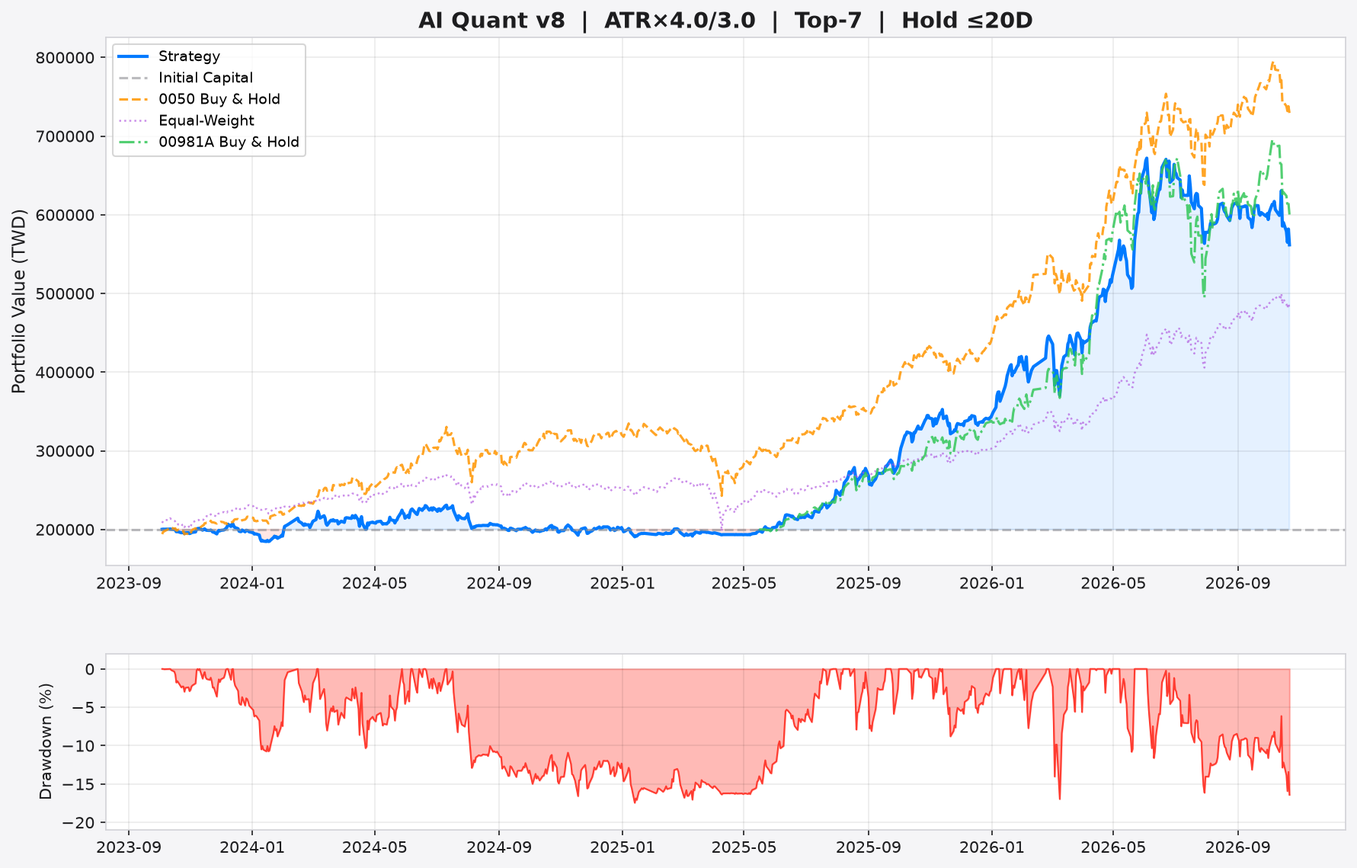
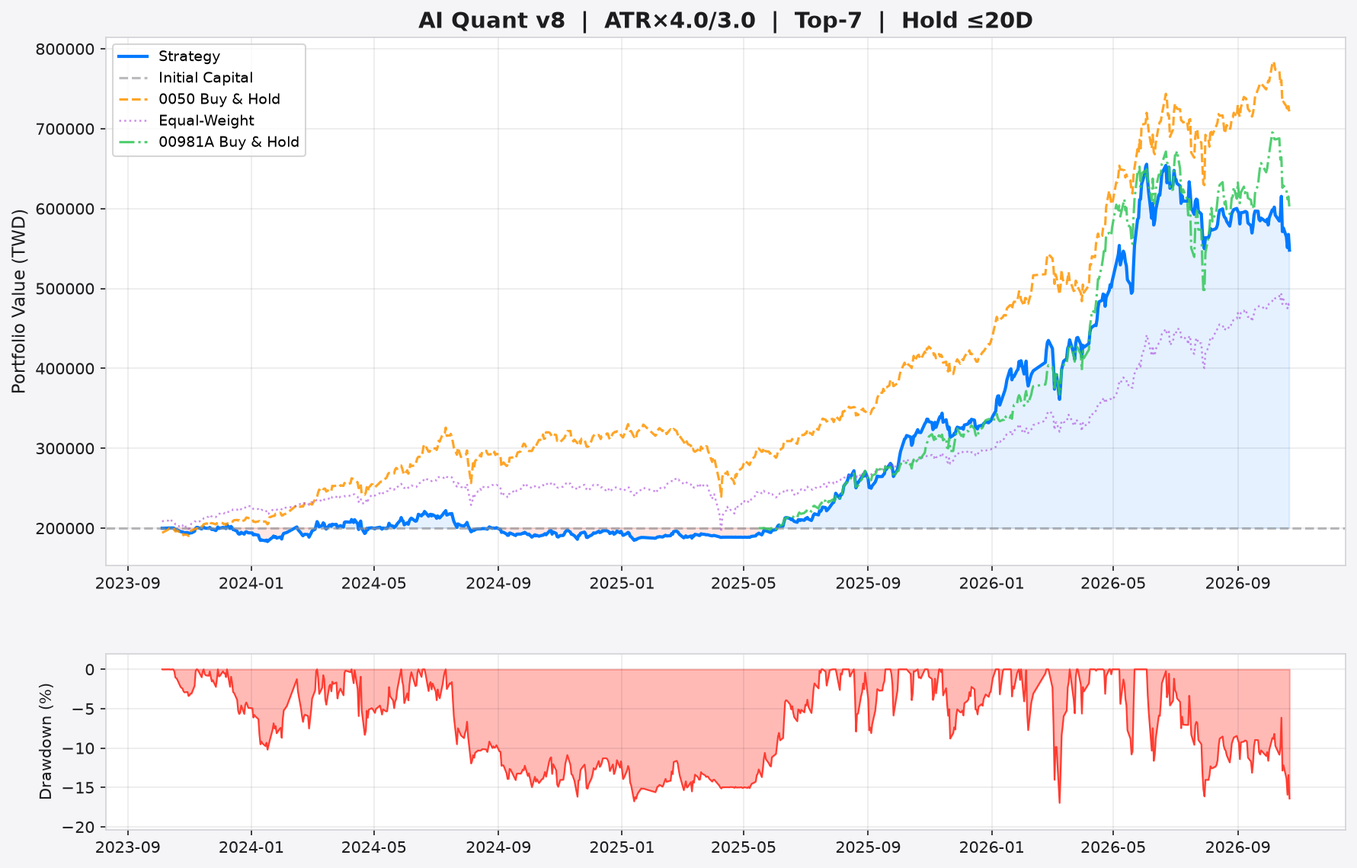
📊 AI Report v8.5 + Paper Trading (2026-10-23)

diff --git a/stock_report.html b/stock_report.html
@@ -303,27 +303,27 @@
     <div class="stats">
         <div class="stat-card">
             <div class="label">策略總報酬率</div>
-            <div class="value" style="color:#00ff00;">+180.9%</div>
+            <div class="value" style="color:#00ff00;">+174.0%</div>
         </div>
         <div class="stat-card">
             <div class="label">年化報酬率</div>
-            <div class="value" style="color:#00ff00;">+42.2%</div>
+            <div class="value" style="color:#00ff00;">+41.1%</div>
         </div>
         <div class="stat-card">
             <div class="label">年化波動率</div>
-            <div class="value">27.1%</div>
+            <div class="value">26.5%</div>
         </div>
         <div class="stat-card risk">
             <div class="label">Sharpe Ratio</div>
-            <div class="value" style="color:#00ff00;">1.44</div>
+            <div class="value" style="color:#00ff00;">1.43</div>
         </div>
         <div class="stat-card risk">
             <div class="label">Sortino Ratio</div>
-            <div class="value">2.01</div>
+            <div class="value">2.00</div>
         </div>
         <div class="stat-card risk">
             <div class="label">最大回撤</div>
-            <div class="value" style="color:#ff4444;">-17.4%</div>
+            <div class="value" style="color:#ff4444;">-17.0%</div>
         </div>
         <div class="stat-card risk">
             <div class="label">Calmar Ratio</div>
@@ -331,11 +331,11 @@
         </div>
         <div class="stat-card">
             <div class="label">完成交易數</div>
-            <div class="value">566</div>
+            <div class="value">567</div>
         </div>
         <div class="stat-card">
             <div class="label">勝率</div>
-            <div class="value" style="color:#00ff00;">53.4%</div>
+            <div class="value" style="color:#00ff00;">54.1%</div>
         </div>
         <div class="stat-card">
             <div class="label">Profit Factor</div>
@@ -343,7 +343,7 @@
         </div>
         <div class="stat-card">
             <div class="label">平均報酬/筆</div>
-            <div class="value">+2.48%</div>
+            <div class="value">+2.49%</div>
         </div>
         <div class="stat-card">
             <div class="label">平均持有天數</div>
@@ -373,14 +373,14 @@
 <tr><td>1303</td><td>4.00</td><td>301.0</td><td><span style="color:#00ff00; font-weight:bold;">🟢 建議買進 #1</span></td><td><b>停利:</b> <span style="color:#00ff00">383.1</span> (+27.3%) <br><b>停損:</b> <span style="color:#ff4444">239.4</span> (-20.5%) <br><b>最晚出場:</b> 2026-11-20</td><td><span style="font-size:0.72rem; color:#888;">歷史 <b>14</b>筆 | 勝率 <b style="color:#00ff00">79%</b> | 均報酬 <b style="color:#00ff00">+8.7%</b></span></td><td><span style="font-size:0.78rem;">⚪ 無資料<br><span style="color:#888; font-weight:bold;">+0.0%</span></span></td><td><span style="font-size:0.78rem;">⚪ 中性</span></td></tr>
 <tr><td>6505</td><td>3.93</td><td>106.5</td><td><span style="color:#00ff00; font-weight:bold;">🟢 建議買進 #2</span></td><td><b>停利:</b> <span style="color:#00ff00">137.4</span> (+29.0%) <br><b>停損:</b> <span style="color:#ff4444">83.3</span> (-21.8%) <br><b>最晚出場:</b> 2026-11-20</td><td><span style="font-size:0.72rem; color:#888;">歷史 <b>5</b>筆 | 勝率 <b style="color:#00ff00">60%</b> | 均報酬 <b style="color:#00ff00">+6.4%</b></span></td><td><span style="font-size:0.78rem;">⚪ 無資料<br><span style="color:#888; font-weight:bold;">+0.0%</span></span></td><td><span style="font-size:0.78rem;">⚪ 中性</span></td></tr>
 <tr><td>1101</td><td>3.78</td><td>28.0</td><td><span style="color:#00ff00; font-weight:bold;">🟢 建議買進 #3</span></td><td><b>停利:</b> <span style="color:#00ff00">31.2</span> (+11.5%) <br><b>停損:</b> <span style="color:#ff4444">25.5</span> (-8.6%) <br><b>最晚出場:</b> 2026-11-20</td><td><span style="font-size:0.72rem; color:#555;">歷史資料不足</span></td><td><span style="font-size:0.78rem;">🟡 小買<br><span style="color:#ffab00; font-weight:bold;">+1.2%</span></span></td><td><span style="font-size:0.78rem;">⚪ 中性</span></td></tr>
-<tr><td>4938</td><td>3.77</td><td>103.5</td><td><span style="color:#00ff00; font-weight:bold;">🟢 建議買進 #4</span></td><td><b>停利:</b> <span style="color:#00ff00">117.7</span> (+13.8%) <br><b>停損:</b> <span style="color:#ff4444">92.8</span> (-10.3%) <br><b>最晚出場:</b> 2026-11-20</td><td><span style="font-size:0.72rem; color:#888;">歷史 <b>3</b>筆 | 勝率 <b style="color:#ff4444">33%</b> | 均報酬 <b style="color:#00ff00">+1.7%</b></span></td><td><span style="font-size:0.78rem;">🟡 小買<br><span style="color:#ffab00; font-weight:bold;">+1.6%</span></span></td><td><span style="font-size:0.78rem;">⚪ 中性</span></td></tr>
+<tr><td>4938</td><td>3.77</td><td>103.5</td><td><span style="color:#00ff00; font-weight:bold;">🟢 建議買進 #4</span></td><td><b>停利:</b> <span style="color:#00ff00">117.7</span> (+13.8%) <br><b>停損:</b> <span style="color:#ff4444">92.8</span> (-10.3%) <br><b>最晚出場:</b> 2026-11-20</td><td><span style="font-size:0.72rem; color:#888;">歷史 <b>3</b>筆 | 勝率 <b style="color:#ff4444">33%</b> | 均報酬 <b style="color:#ff4444">-0.2%</b></span></td><td><span style="font-size:0.78rem;">🟡 小買<br><span style="color:#ffab00; font-weight:bold;">+1.6%</span></span></td><td><span style="font-size:0.78rem;">⚪ 中性</span></td></tr>
 <tr><td>1301</td><td>3.73</td><td>73.8</td><td><span style="color:#00ff00; font-weight:bold;">🟢 建議買進 #5</span></td><td><b>停利:</b> <span style="color:#00ff00">90.8</span> (+23.0%) <br><b>停損:</b> <span style="color:#ff4444">61.1</span> (-17.2%) <br><b>最晚出場:</b> 2026-11-20</td><td><span style="font-size:0.72rem; color:#888;">歷史 <b>3</b>筆 | 勝率 <b style="color:#ff4444">0%</b> | 均報酬 <b style="color:#ff4444">-9.5%</b></span></td><td><span style="font-size:0.78rem;">🟡 小買<br><span style="color:#ffab00; font-weight:bold;">+1.2%</span></span></td><td><span style="font-size:0.78rem;">⚪ 中性</span></td></tr>
 <tr><td>2412</td><td>3.52</td><td>158.0</td><td><span style="color:#00ff00; font-weight:bold;">🟢 建議買進 #6</span></td><td><b>停利:</b> <span style="color:#00ff00">167.9</span> (+6.3%) <br><b>停損:</b> <span style="color:#ff4444">150.6</span> (-4.7%) <br><b>最晚出場:</b> 2026-11-20</td><td><span style="font-size:0.72rem; color:#888;">歷史 <b>2</b>筆 | 勝率 <b style="color:#00ff00">100%</b> | 均報酬 <b style="color:#00ff00">+1.6%</b></span></td><td><span style="font-size:0.78rem;">⚪ 無資料<br><span style="color:#888; font-weight:bold;">+0.0%</span></span></td><td><span style="font-size:0.78rem;">⚪ 中性</span></td></tr>
-<tr><td>2884</td><td>3.50</td><td>49.8</td><td><span style="color:#00ff00; font-weight:bold;">🟢 建議買進 #7</span></td><td><b>停利:</b> <span style="color:#00ff00">53.9</span> (+8.3%) <br><b>停損:</b> <span style="color:#ff4444">46.7</span> (-6.2%) <br><b>最晚出場:</b> 2026-11-20</td><td><span style="font-size:0.72rem; color:#888;">歷史 <b>5</b>筆 | 勝率 <b style="color:#00ff00">80%</b> | 均報酬 <b style="color:#00ff00">+1.6%</b></span></td><td><span style="font-size:0.78rem;">⚪ 無資料<br><span style="color:#888; font-weight:bold;">+0.0%</span></span></td><td><span style="font-size:0.78rem;">⚪ 中性</span></td></tr>
-<tr style="opacity:0.6"><td>6415</td><td>3.45</td><td>472.0</td><td><span style="color:#ffab00">🟡 候選 (超出 Top-K)</span></td><td>-</td><td><span style="font-size:0.72rem; color:#888;">勝率 <b style="color:#ff4444">43%</b></span></td><td><span style="font-size:0.72rem;">⚪ 無資料<br><span style="color:#888">+0.0%</span></span></td><td><span style="font-size:0.72rem;">⚪ 中性</span></td></tr>
-<tr style="opacity:0.6"><td>2886</td><td>3.45</td><td>55.2</td><td><span style="color:#ffab00">🟡 候選 (超出 Top-K)</span></td><td>-</td><td><span style="font-size:0.72rem; color:#888;">勝率 <b style="color:#ff4444">0%</b></span></td><td><span style="font-size:0.72rem;">⚪ 無資料<br><span style="color:#888">+0.0%</span></span></td><td><span style="font-size:0.72rem;">⚪ 中性</span></td></tr>
-<tr style="opacity:0.6"><td>2603</td><td>3.28</td><td>260.0</td><td><span style="color:#ffab00">🟡 候選 (超出 Top-K)</span></td><td>-</td><td><span style="font-size:0.72rem; color:#888;">勝率 <b style="color:#ff4444">40%</b></span></td><td><span style="font-size:0.72rem;">🟢 大買<br><span style="color:#00ff00">+2.0%</span></span></td><td><span style="font-size:0.72rem;">⚪ 中性</span></td></tr>
-<tr style="opacity:0.6"><td>3533</td><td>3.27</td><td>1795.0</td><td><span style="color:#ffab00">🟡 候選 (超出 Top-K)</span></td><td>-</td><td><span style="font-size:0.72rem; color:#888;">勝率 <b style="color:#00ff00">50%</b></span></td><td><span style="font-size:0.72rem;">⚪ 無資料<br><span style="color:#888">+0.0%</span></span></td><td><span style="font-size:0.72rem;">⚪ 中性</span></td></tr>
+<tr><td>2884</td><td>3.50</td><td>49.8</td><td><span style="color:#00ff00; font-weight:bold;">🟢 建議買進 #7</span></td><td><b>停利:</b> <span style="color:#00ff00">53.9</span> (+8.3%) <br><b>停損:</b> <span style="color:#ff4444">46.7</span> (-6.2%) <br><b>最晚出場:</b> 2026-11-20</td><td><span style="font-size:0.72rem; color:#888;">歷史 <b>5</b>筆 | 勝率 <b style="color:#00ff00">80%</b> | 均報酬 <b style="color:#00ff00">+2.0%</b></span></td><td><span style="font-size:0.78rem;">⚪ 無資料<br><span style="color:#888; font-weight:bold;">+0.0%</span></span></td><td><span style="font-size:0.78rem;">⚪ 中性</span></td></tr>
+<tr style="opacity:0.6"><td>6415</td><td>3.45</td><td>472.0</td><td><span style="color:#ffab00">🟡 候選 (超出 Top-K)</span></td><td>-</td><td><span style="font-size:0.72rem; color:#888;">勝率 <b style="color:#ff4444">38%</b></span></td><td><span style="font-size:0.72rem;">⚪ 無資料<br><span style="color:#888">+0.0%</span></span></td><td><span style="font-size:0.72rem;">⚪ 中性</span></td></tr>
+<tr style="opacity:0.6"><td>2886</td><td>3.45</td><td>55.2</td><td><span style="color:#ffab00">🟡 候選 (超出 Top-K)</span></td><td>-</td><td><span style="font-size:0.72rem; color:#888;">勝率 <b style="color:#00ff00">50%</b></span></td><td><span style="font-size:0.72rem;">⚪ 無資料<br><span style="color:#888">+0.0%</span></span></td><td><span style="font-size:0.72rem;">⚪ 中性</span></td></tr>
+<tr style="opacity:0.6"><td>2603</td><td>3.28</td><td>260.0</td><td><span style="color:#ffab00">🟡 候選 (超出 Top-K)</span></td><td>-</td><td><span style="font-size:0.72rem; color:#888;">勝率 <b style="color:#00ff00">50%</b></span></td><td><span style="font-size:0.72rem;">🟢 大買<br><span style="color:#00ff00">+2.0%</span></span></td><td><span style="font-size:0.72rem;">⚪ 中性</span></td></tr>
+<tr style="opacity:0.6"><td>3533</td><td>3.27</td><td>1795.0</td><td><span style="color:#ffab00">🟡 候選 (超出 Top-K)</span></td><td>-</td><td><span style="font-size:0.72rem; color:#888;">勝率 <b style="color:#00ff00">71%</b></span></td><td><span style="font-size:0.72rem;">⚪ 無資料<br><span style="color:#888">+0.0%</span></span></td><td><span style="font-size:0.72rem;">⚪ 中性</span></td></tr>
 <tr style="opacity:0.6"><td>1326</td><td>3.27</td><td>73.0</td><td><span style="color:#ffab00">🟡 候選 (超出 Top-K)</span></td><td>-</td><td><span style="font-size:0.72rem; color:#888;">勝率 <b style="color:#ff4444">29%</b></span></td><td><span style="font-size:0.72rem;">⚪ 無資料<br><span style="color:#888">+0.0%</span></span></td><td><span style="font-size:0.72rem;">⚪ 中性</span></td></tr>
 <tr style="opacity:0.4"><td>2383</td><td>2.37</td><td>5070.0</td><td><span style="color:#aaaaaa">⚪ 觀望 (低於 MA)</span></td><td>-</td><td>-</td><td style="color:#555">-</td><td style="color:#555">-</td></tr>
 <tr style="opacity:0.4"><td>1605</td><td>2.02</td><td>37.0</td><td><span style="color:#aaaaaa">⚪ 觀望 (低於 MA)</span></td><td>-</td><td>-</td><td style="color:#555">-</td><td style="color:#555">-</td></tr>
@@ -461,7 +461,7 @@
     <div class="stats">
         <div class="stat-card benchmark">
             <div class="label">0050 年化報酬</div>
-            <div class="value">+50.3%</div>
+            <div class="value">+49.8%</div>
         </div>
         <div class="stat-card benchmark">
             <div class="label">0050 最大回撤</div>
@@ -469,11 +469,11 @@
         </div>
         <div class="stat-card benchmark">
             <div class="label">0050 Sharpe</div>
-            <div class="value">1.75</div>
+            <div class="value">1.73</div>
         </div>
         <div class="stat-card" style="border-left-color:#ff4444">
             <div class="label">超額年化報酬 (α)</div>
-            <div class="value" style="color:#ff4444">-8.1%</div>
+            <div class="value" style="color:#ff4444">-8.7%</div>
         </div>
     </div>
 
@@ -533,18 +533,18 @@
         </div>
         <div class="stat-card">
             <div class="label">權益最高點</div>
-            <div class="value">671,984</div>
+            <div class="value">655,489</div>
         </div>
         <div class="stat-card">
             <div class="label">歷史回撤次數</div>
-            <div class="value">34</div>
+            <div class="value">32</div>
         </div>
     </div>
     <table>
         <thead><tr><th>#</th><th>開始日</th><th>恢復日</th><th>最大深度</th><th>持續天數</th></tr></thead>
         <tbody>
-<tr><td>#1</td><td>2024-07-18</td><td>2025-07-18</td><td style="color:#ff4444; font-weight:bold">-17.4%</td><td>365 天</td></tr>
-<tr><td>#2</td><td>2026-03-02</td><td>2026-03-19</td><td style="color:#ff4444; font-weight:bold">-17.0%</td><td>17 天</td></tr>
+<tr><td>#1</td><td>2026-03-02</td><td>2026-03-19</td><td style="color:#ff4444; font-weight:bold">-17.0%</td><td>17 天</td></tr>
+<tr><td>#2</td><td>2024-07-12</td><td>2025-07-15</td><td style="color:#ff4444; font-weight:bold">-16.8%</td><td>368 天</td></tr>
 <tr><td>#3</td><td>2026-06-23</td><td>2026-10-22</td><td style="color:#ff4444; font-weight:bold">-16.4%</td><td>121 天</td></tr>
 <tr><td>#4</td><td>2026-06-04</td><td>2026-06-22</td><td style="color:#ff4444; font-weight:bold">-11.6%</td><td>18 天</td></tr>
 <tr><td>#5</td><td>2026-05-08</td><td>2026-05-22</td><td style="color:#ff4444; font-weight:bold">-10.8%</td><td>14 天</td></tr>
@@ -562,11 +562,11 @@
         </div>
         <div class="stat-card">
             <div class="label">歷史平均 Sharpe</div>
-            <div class="value">1.45</div>
+            <div class="value">1.41</div>
         </div>
         <div class="stat-card risk">
             <div class="label">歷史最低 Sharpe</div>
-            <div class="value">-3.05</div>
+            <div class="value">-3.48</div>
         </div>
         <div class="stat-card">
             <div class="label">歷史最高 Sharpe</div>
@@ -596,9 +596,9 @@
     <table>
         <thead><tr><th>出場原因</th><th>次數</th><th>平均報酬</th></tr></thead>
         <tbody>
-<tr><td>🟢 停利</td><td>210 筆</td><td style="color:#00ff00">+16.60%</td></tr>
-<tr><td>⚪ 時間到期</td><td>206 筆</td><td style="color:#ff4444">-0.45%</td></tr>
-<tr><td>🔴 停損</td><td>150 筆</td><td style="color:#ff4444">-13.26%</td></tr>
+<tr><td>🟢 停利</td><td>213 筆</td><td style="color:#00ff00">+16.41%</td></tr>
+<tr><td>⚪ 時間到期</td><td>203 筆</td><td style="color:#ff4444">-0.31%</td></tr>
+<tr><td>🔴 停損</td><td>151 筆</td><td style="color:#ff4444">-13.36%</td></tr>
 
         </tbody>
     </table>
@@ -608,14 +608,14 @@
 
     <table>
         <thead><tr><th>報酬區間</th><th>筆數</th><th>佔比</th><th>分布</th></tr></thead>
-        <tbody><tr><td>< -15%</td><td>39</td><td>6.9%</td><td><div style="background:#ff4444; width:20.671378091872793%; height:14px; border-radius:3px; opacity:0.6"></div></td></tr>
-<tr><td>-15~-10%</td><td>89</td><td>15.7%</td><td><div style="background:#ff4444; width:47.1731448763251%; height:14px; border-radius:3px; opacity:0.6"></div></td></tr>
-<tr><td>-10~-5%</td><td>74</td><td>13.1%</td><td><div style="background:#ff4444; width:39.2226148409894%; height:14px; border-radius:3px; opacity:0.6"></div></td></tr>
-<tr><td>-5~0%</td><td>62</td><td>11.0%</td><td><div style="background:#ff4444; width:32.86219081272085%; height:14px; border-radius:3px; opacity:0.6"></div></td></tr>
-<tr><td>0~5%</td><td>57</td><td>10.1%</td><td><div style="background:#00ff00; width:30.212014134275613%; height:14px; border-radius:3px; opacity:0.6"></div></td></tr>
-<tr><td>5~10%</td><td>42</td><td>7.4%</td><td><div style="background:#00ff00; width:22.26148409893993%; height:14px; border-radius:3px; opacity:0.6"></div></td></tr>
-<tr><td>10~20%</td><td>150</td><td>26.5%</td><td><div style="background:#00ff00; width:79.50530035335689%; height:14px; border-radius:3px; opacity:0.6"></div></td></tr>
-<tr><td>> 20%</td><td>53</td><td>9.4%</td><td><div style="background:#00ff00; width:28.09187279151943%; height:14px; border-radius:3px; opacity:0.6"></div></td></tr>
+        <tbody><tr><td>< -15%</td><td>39</td><td>6.9%</td><td><div style="background:#ff4444; width:20.634920634920633%; height:14px; border-radius:3px; opacity:0.6"></div></td></tr>
+<tr><td>-15~-10%</td><td>91</td><td>16.0%</td><td><div style="background:#ff4444; width:48.14814814814815%; height:14px; border-radius:3px; opacity:0.6"></div></td></tr>
+<tr><td>-10~-5%</td><td>74</td><td>13.1%</td><td><div style="background:#ff4444; width:39.15343915343915%; height:14px; border-radius:3px; opacity:0.6"></div></td></tr>
+<tr><td>-5~0%</td><td>56</td><td>9.9%</td><td><div style="background:#ff4444; width:29.629629629629626%; height:14px; border-radius:3px; opacity:0.6"></div></td></tr>
+<tr><td>0~5%</td><td>57</td><td>10.1%</td><td><div style="background:#00ff00; width:30.158730158730158%; height:14px; border-radius:3px; opacity:0.6"></div></td></tr>
+<tr><td>5~10%</td><td>46</td><td>8.1%</td><td><div style="background:#00ff00; width:24.33862433862434%; height:14px; border-radius:3px; opacity:0.6"></div></td></tr>
+<tr><td>10~20%</td><td>150</td><td>26.5%</td><td><div style="background:#00ff00; width:79.36507936507935%; height:14px; border-radius:3px; opacity:0.6"></div></td></tr>
+<tr><td>> 20%</td><td>54</td><td>9.5%</td><td><div style="background:#00ff00; width:28.57142857142857%; height:14px; border-radius:3px; opacity:0.6"></div></td></tr>
 </tbody>
     </table>
 
@@ -626,25 +626,25 @@
     <table>
         <thead><tr><th>股票</th><th>交易數</th><th>勝率</th><th>平均報酬</th><th>總貢獻</th></tr></thead>
         <tbody><tr><td><b>2344</b></td><td>16</td><td style="color:#00ff00">81%</td><td style="color:#00ff00">+12.0%</td><td style="color:#00ff00; font-weight:bold">+192.7%</td></tr>
-<tr><td><b>2383</b></td><td>15</td><td style="color:#00ff00">80%</td><td style="color:#00ff00">+11.9%</td><td style="color:#00ff00; font-weight:bold">+178.9%</td></tr>
-<tr><td><b>3017</b></td><td>18</td><td style="color:#00ff00">83%</td><td style="color:#00ff00">+9.9%</td><td style="color:#00ff00; font-weight:bold">+177.8%</td></tr>
+<tr><td><b>2383</b></td><td>14</td><td style="color:#00ff00">79%</td><td style="color:#00ff00">+11.8%</td><td style="color:#00ff00; font-weight:bold">+165.0%</td></tr>
+<tr><td><b>3017</b></td><td>17</td><td style="color:#00ff00">82%</td><td style="color:#00ff00">+9.6%</td><td style="color:#00ff00; font-weight:bold">+163.7%</td></tr>
 <tr><td><b>1303</b></td><td>14</td><td style="color:#00ff00">79%</td><td style="color:#00ff00">+8.7%</td><td style="color:#00ff00; font-weight:bold">+122.4%</td></tr>
 <tr><td><b>2360</b></td><td>10</td><td style="color:#00ff00">80%</td><td style="color:#00ff00">+12.0%</td><td style="color:#00ff00; font-weight:bold">+119.5%</td></tr>
-<tr><td><b>2408</b></td><td>19</td><td style="color:#00ff00">63%</td><td style="color:#00ff00">+6.1%</td><td style="color:#00ff00; font-weight:bold">+116.3%</td></tr>
+<tr><td><b>2408</b></td><td>20</td><td style="color:#00ff00">60%</td><td style="color:#00ff00">+5.7%</td><td style="color:#00ff00; font-weight:bold">+115.0%</td></tr>
 <tr><td><b>6770</b></td><td>9</td><td style="color:#00ff00">89%</td><td style="color:#00ff00">+12.4%</td><td style="color:#00ff00; font-weight:bold">+111.8%</td></tr>
-<tr><td><b>5274O</b></td><td>17</td><td style="color:#00ff00">71%</td><td style="color:#00ff00">+5.3%</td><td style="color:#00ff00; font-weight:bold">+89.3%</td></tr>
-<tr><td><b>2327</b></td><td>10</td><td style="color:#00ff00">70%</td><td style="color:#00ff00">+8.5%</td><td style="color:#00ff00; font-weight:bold">+84.9%</td></tr>
-<tr><td><b>3037</b></td><td>12</td><td style="color:#00ff00">58%</td><td style="color:#00ff00">+6.8%</td><td style="color:#00ff00; font-weight:bold">+81.0%</td></tr>
+<tr><td><b>2327</b></td><td>10</td><td style="color:#00ff00">70%</td><td style="color:#00ff00">+8.6%</td><td style="color:#00ff00; font-weight:bold">+85.5%</td></tr>
+<tr><td><b>5274O</b></td><td>15</td><td style="color:#00ff00">67%</td><td style="color:#00ff00">+5.6%</td><td style="color:#00ff00; font-weight:bold">+83.7%</td></tr>
+<tr><td><b>3037</b></td><td>12</td><td style="color:#00ff00">58%</td><td style="color:#00ff00">+6.7%</td><td style="color:#00ff00; font-weight:bold">+80.3%</td></tr>
 </tbody>
     </table>
     <h3 style="color:#ff4444; margin-top:16px">📉 Bottom 5 虧損股</h3>
     <table>
         <thead><tr><th>股票</th><th>交易數</th><th>勝率</th><th>平均報酬</th><th>總貢獻</th></tr></thead>
-        <tbody><tr style="opacity:0.7"><td><b>2382</b></td><td>3</td><td style="color:#ff4444">0%</td><td style="color:#ff4444">-10.5%</td><td style="color:#ff4444; font-weight:bold">-31.6%</td></tr>
-<tr style="opacity:0.7"><td><b>1326</b></td><td>7</td><td style="color:#ff4444">29%</td><td style="color:#ff4444">-4.6%</td><td style="color:#ff4444; font-weight:bold">-32.5%</td></tr>
+        <tbody><tr style="opacity:0.7"><td><b>1326</b></td><td>7</td><td style="color:#ff4444">29%</td><td style="color:#ff4444">-4.6%</td><td style="color:#ff4444; font-weight:bold">-32.5%</td></tr>
+<tr style="opacity:0.7"><td><b>2379</b></td><td>4</td><td style="color:#ff4444">0%</td><td style="color:#ff4444">-8.9%</td><td style="color:#ff4444; font-weight:bold">-35.6%</td></tr>
 <tr style="opacity:0.7"><td><b>1605</b></td><td>6</td><td style="color:#ff4444">17%</td><td style="color:#ff4444">-6.4%</td><td style="color:#ff4444; font-weight:bold">-38.5%</td></tr>
 <tr style="opacity:0.7"><td><b>2634</b></td><td>6</td><td style="color:#ff4444">17%</td><td style="color:#ff4444">-6.5%</td><td style="color:#ff4444; font-weight:bold">-39.2%</td></tr>
-<tr style="opacity:0.7"><td><b>3481</b></td><td>12</td><td style="color:#ff4444">25%</td><td style="color:#ff4444">-5.6%</td><td style="color:#ff4444; font-weight:bold">-67.6%</td></tr>
+<tr style="opacity:0.7"><td><b>3481</b></td><td>12</td><td style="color:#ff4444">25%</td><td style="color:#ff4444">-5.6%</td><td style="color:#ff4444; font-weight:bold">-67.7%</td></tr>
 </tbody>
     </table>
 
@@ -687,23 +687,23 @@
     <table style="max-width:400px">
         <thead><tr><th>月份</th><th>月報酬</th></tr></thead>
         <tbody>
-<tr style="background:rgba(0,255,0,0.05)"><td>2023-11</td><td style="color:#00ff00; font-weight:bold">+1.7%</td></tr>
-<tr style="background:rgba(255,68,68,0.02)"><td>2023-12</td><td style="color:#ff4444; font-weight:bold">-0.6%</td></tr>
-<tr style="background:rgba(255,68,68,0.08)"><td>2024-01</td><td style="color:#ff4444; font-weight:bold">-2.8%</td></tr>
-<tr style="background:rgba(0,255,0,0.25)"><td>2024-02</td><td style="color:#00ff00; font-weight:bold">+8.5%</td></tr>
-<tr style="background:rgba(0,255,0,0.04)"><td>2024-03</td><td style="color:#00ff00; font-weight:bold">+1.4%</td></tr>
-<tr style="background:rgba(255,68,68,0.03)"><td>2024-04</td><td style="color:#ff4444; font-weight:bold">-0.9%</td></tr>
-<tr style="background:rgba(0,255,0,0.08)"><td>2024-05</td><td style="color:#00ff00; font-weight:bold">+2.7%</td></tr>
-<tr style="background:rgba(0,255,0,0.18)"><td>2024-06</td><td style="color:#00ff00; font-weight:bold">+6.2%</td></tr>
-<tr style="background:rgba(255,68,68,0.14)"><td>2024-07</td><td style="color:#ff4444; font-weight:bold">-4.8%</td></tr>
-<tr style="background:rgba(255,68,68,0.15)"><td>2024-08</td><td style="color:#ff4444; font-weight:bold">-4.9%</td></tr>
-<tr style="background:rgba(255,68,68,0.09)"><td>2024-09</td><td style="color:#ff4444; font-weight:bold">-3.1%</td></tr>
+<tr style="background:rgba(0,255,0,0.10)"><td>2023-11</td><td style="color:#00ff00; font-weight:bold">+3.2%</td></tr>
+<tr style="background:rgba(255,68,68,0.08)"><td>2023-12</td><td style="color:#ff4444; font-weight:bold">-2.8%</td></tr>
+<tr style="background:rgba(255,68,68,0.12)"><td>2024-01</td><td style="color:#ff4444; font-weight:bold">-4.0%</td></tr>
+<tr style="background:rgba(0,255,0,0.12)"><td>2024-02</td><td style="color:#00ff00; font-weight:bold">+3.8%</td></tr>
+<tr style="background:rgba(0,255,0,0.15)"><td>2024-03</td><td style="color:#00ff00; font-weight:bold">+5.0%</td></tr>
+<tr style="background:rgba(255,68,68,0.04)"><td>2024-04</td><td style="color:#ff4444; font-weight:bold">-1.5%</td></tr>
+<tr style="background:rgba(0,255,0,0.06)"><td>2024-05</td><td style="color:#00ff00; font-weight:bold">+2.0%</td></tr>
+<tr style="background:rgba(0,255,0,0.19)"><td>2024-06</td><td style="color:#00ff00; font-weight:bold">+6.3%</td></tr>
+<tr style="background:rgba(255,68,68,0.17)"><td>2024-07</td><td style="color:#ff4444; font-weight:bold">-5.6%</td></tr>
+<tr style="background:rgba(255,68,68,0.06)"><td>2024-08</td><td style="color:#ff4444; font-weight:bold">-2.1%</td></tr>
+<tr style="background:rgba(255,68,68,0.13)"><td>2024-09</td><td style="color:#ff4444; font-weight:bold">-4.3%</td></tr>
 <tr style="background:rgba(255,68,68,0.05)"><td>2024-10</td><td style="color:#ff4444; font-weight:bold">-1.6%</td></tr>
-<tr style="background:rgba(255,68,68,0.00)"><td>2024-11</td><td style="color:#ff4444; font-weight:bold">-0.0%</td></tr>
-<tr style="background:rgba(0,255,0,0.09)"><td>2024-12</td><td style="color:#00ff00; font-weight:bold">+3.1%</td></tr>
-<tr style="background:rgba(255,68,68,0.11)"><td>2025-01</td><td style="color:#ff4444; font-weight:bold">-3.6%</td></tr>
-<tr style="background:rgba(0,255,0,0.02)"><td>2025-02</td><td style="color:#00ff00; font-weight:bold">+0.5%</td></tr>
-<tr style="background:rgba(255,68,68,0.02)"><td>2025-03</td><td style="color:#ff4444; font-weight:bold">-0.5%</td></tr>
+<tr style="background:rgba(0,255,0,0.01)"><td>2024-11</td><td style="color:#00ff00; font-weight:bold">+0.3%</td></tr>
+<tr style="background:rgba(0,255,0,0.10)"><td>2024-12</td><td style="color:#00ff00; font-weight:bold">+3.5%</td></tr>
+<tr style="background:rgba(255,68,68,0.12)"><td>2025-01</td><td style="color:#ff4444; font-weight:bold">-3.9%</td></tr>
+<tr style="background:rgba(0,255,0,0.06)"><td>2025-02</td><td style="color:#00ff00; font-weight:bold">+1.9%</td></tr>
+<tr style="background:rgba(255,68,68,0.03)"><td>2025-03</td><td style="color:#ff4444; font-weight:bold">-0.9%</td></tr>
 <tr style="background:rgba(255,68,68,0.03)"><td>2025-04</td><td style="color:#ff4444; font-weight:bold">-0.9%</td></tr>
 <tr style="background:rgba(0,255,0,0.14)"><td>2025-05</td><td style="color:#00ff00; font-weight:bold">+4.6%</td></tr>
 <tr style="background:rgba(0,255,0,0.19)"><td>2025-06</td><td style="color:#00ff00; font-weight:bold">+6.4%</td></tr>

diff --git a/paper_trading.html b/paper_trading.html
@@ -3,7 +3,7 @@
 <head>
     <meta charset="utf-8">
     <meta name="viewport" content="width=device-width, initial-scale=1.0">
-    <title>Paper Trading v8.5 — 2026-10-22</title>
+    <title>Paper Trading v8.5 — 2026-10-23</title>
     <meta name="description" content="TW Stocker v8.5 Paper Trading 實時績效追蹤">
     <script src="https://cdn.jsdelivr.net/npm/chart.js@4"></script>
     <style>
@@ -92,7 +92,7 @@
     <h1>📈 Paper Trading v8.5</h1>
     <p class="subtitle">
         <span class="badge badge-live">● LIVE</span>
-        起始日 2026-10-22 | 更新 2026-10-22 | 初始資金 200,000 | 保留本金 10%，其餘投入
+        起始日 2026-10-23 | 更新 2026-10-23 | 初始資金 200,000 | 保留本金 10%，其餘投入
     </p>
 
     <div class="metrics">
@@ -219,7 +219,7 @@ const ctx = document.getElementById('equityChart').getContext('2d');
 new Chart(ctx, {
     type: 'line',
     data: {
-        labels: ["2026-10-22"],
+        labels: ["2026-10-23"],
         datasets: [{
             label: 'Paper Trading 權益',
             data: [200000],
